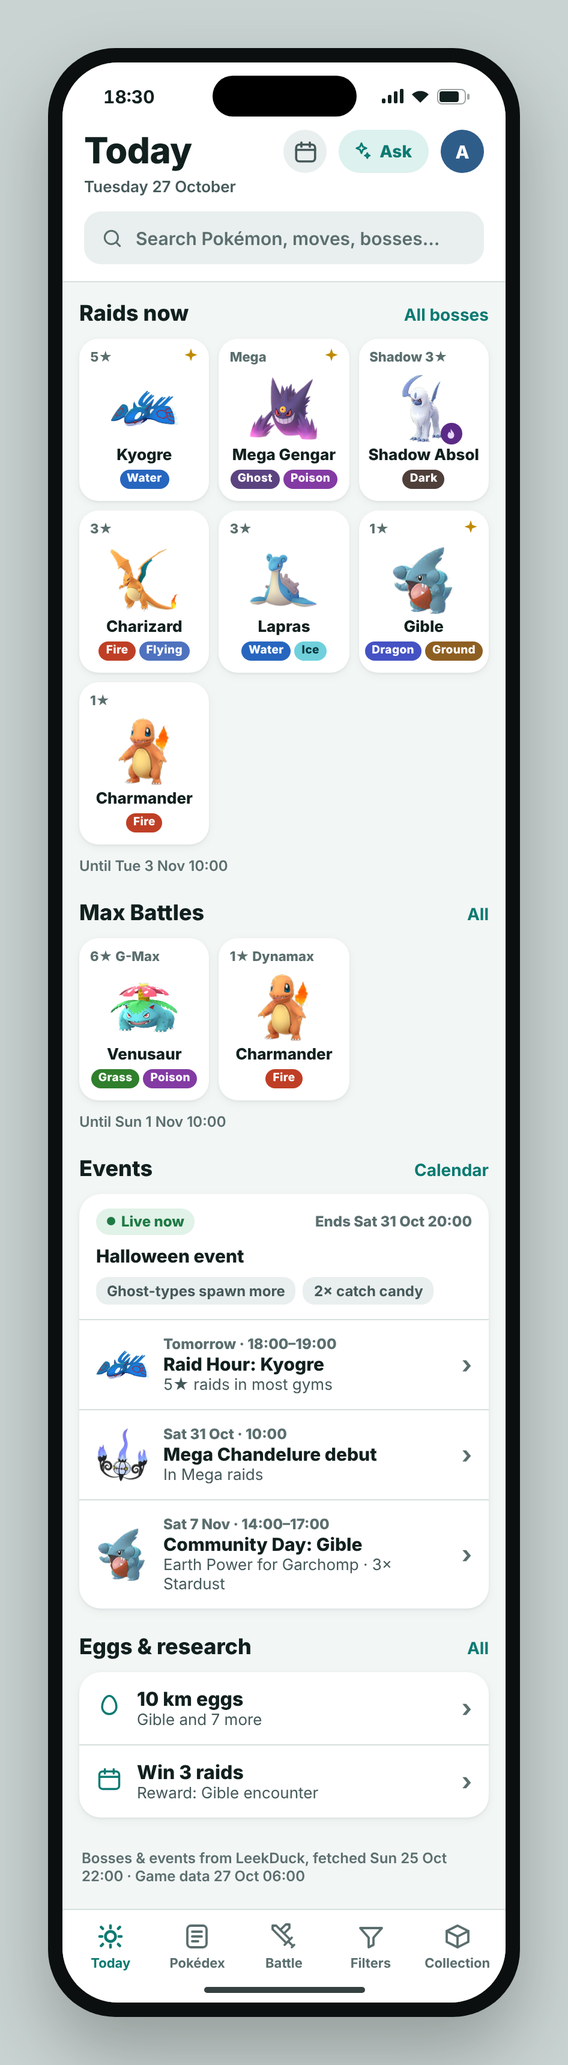
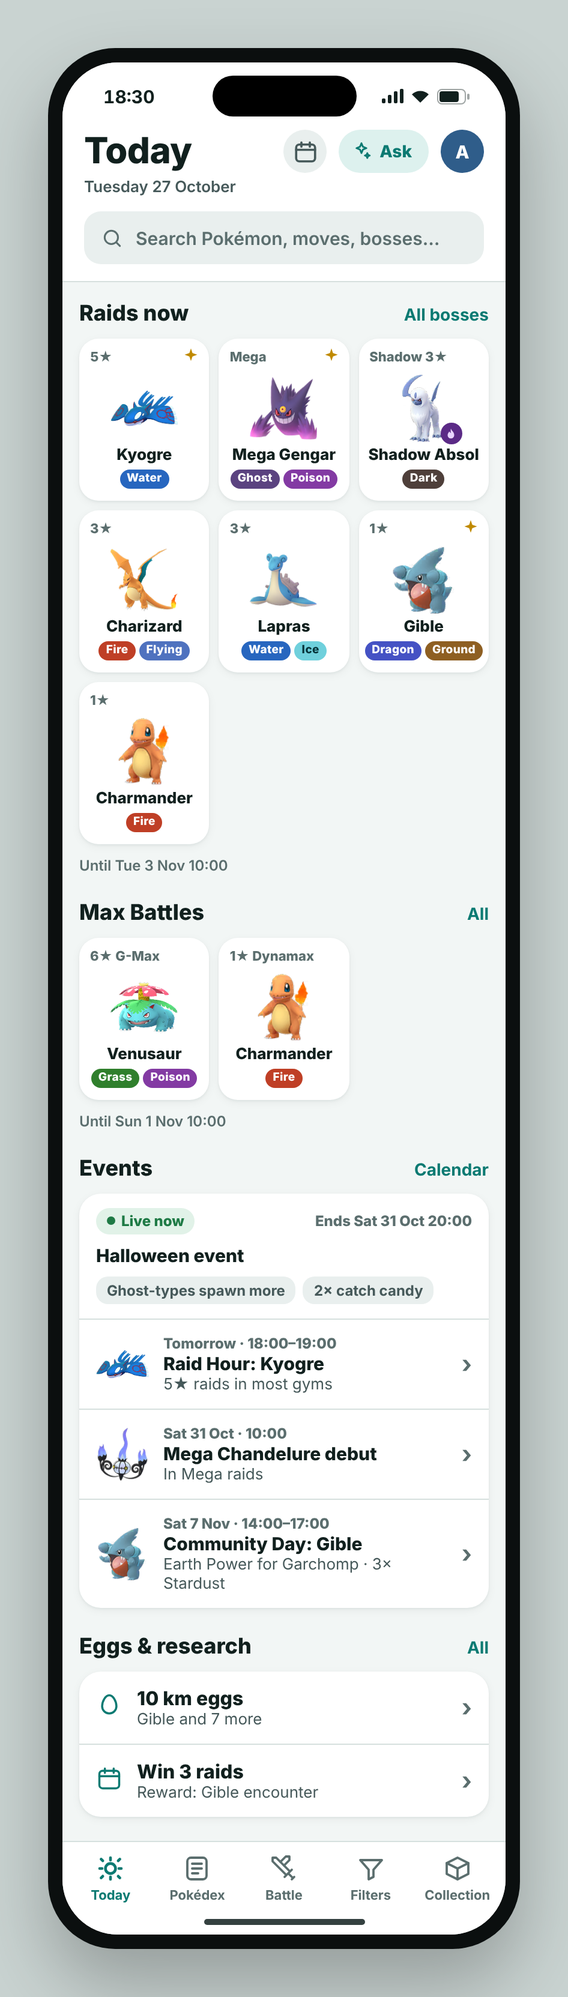
Remove source lines from A1/A2; mock the info-button option
Claude-Session: https://claude.ai/code/session_014PLsCiJiJmtsciFeh9tQXY

diff --git a/design/source/screens/A2-desktop.html b/design/source/screens/A2-desktop.html
@@ -1,4 +1,4 @@
 <!doctype html><html lang="en"><head><meta charset="utf-8"><title>A2 Calendar</title><link rel="stylesheet" href="../base.css"><link rel="stylesheet" href="_a2.css"></head><body><div class="desktop"><div data-sidebar="calendar"></div><div class="main"><div data-topbar></div>
 <div class="content" style="max-width:960px"><a class="backlink">‹ Today</a>
 <div style="display:flex;align-items:flex-end;gap:16px;margin:6px 0 18px"><h1 class="bigtitle" style="flex:none">Calendar</h1><span style="flex:1"></span><div class="filterchips"><span class="fchip on">All</span><span class="fchip">Raids</span><span class="fchip">Max Battles</span><span class="fchip">Events</span></div></div>
-<div style="margin:0 -12px"><div class="day"><b>Now</b></div><div class="group" style="margin:0 12px 6px"><div class="citem"><div class="ctime">Until Sat 31&nbsp;Oct 20:00</div><div class="cbody"><span style="display:flex;gap:6px;align-items:center"><span class="pill live" style="height:20px"><span class="dot"></span>Live</span><span class="kind ev">Event</span></span><div class="ctitle">Halloween event</div><div class="chips"><span class="chip">Ghost-types spawn more</span><span class="chip">2× catch candy</span></div></div><span class="csprites"><img class="sprite" src="../sprites/094.png" width="40" height="40" alt=""></span><span class="chev">›</span></div><div class="citem"><div class="ctime">Until Tue 3&nbsp;Nov 10:00</div><div class="cbody"><span style="display:flex;gap:6px;align-items:center"><span class="pill live" style="height:20px"><span class="dot"></span>Live</span><span class="kind">Raids</span></span><div class="ctitle">Kyogre, Mega Gengar, Shadow Absol and 4 more</div></div><span class="csprites"><img class="sprite" src="../sprites/382.png" width="40" height="40" alt=""><img class="sprite" src="../sprites/094_51.png" width="40" height="40" alt=""><img class="sprite" src="../sprites/359.png" width="40" height="40" alt=""></span><span class="chev">›</span></div><div class="citem"><div class="ctime">Until Sun 1&nbsp;Nov 10:00</div><div class="cbody"><span style="display:flex;gap:6px;align-items:center"><span class="pill live" style="height:20px"><span class="dot"></span>Live</span><span class="kind">Max Battles</span></span><div class="ctitle">Gigantamax Venusaur, Dynamax Charmander</div></div><span class="csprites"><img class="sprite" src="../sprites/003.png" width="40" height="40" alt=""><img class="sprite" src="../sprites/004.png" width="40" height="40" alt=""></span><span class="chev">›</span></div></div><div class="day"><b>Wed 28 Oct</b>Tomorrow</div><div class="group" style="margin:0 12px 6px"><div class="citem"><div class="ctime">18:00–<br>19:00</div><div class="cbody"><span class="kind">Raid Hour</span><div class="ctitle">Kyogre</div><div class="chips"><span class="chip">5★ raids in most gyms</span></div></div><span class="csprites"><img class="sprite" src="../sprites/382.png" width="40" height="40" alt=""></span><span class="chev">›</span></div></div><div class="day"><b>Sat 31 Oct</b></div><div class="group" style="margin:0 12px 6px"><div class="citem"><div class="ctime">10:00</div><div class="cbody"><span class="kind ev">Debut</span><div class="ctitle">Mega Chandelure in Mega raids</div></div><span class="csprites"><img class="sprite" src="../sprites/609.png" width="40" height="40" alt=""></span><span class="chev">›</span></div><div class="citem"><div class="ctime">20:00</div><div class="cbody"><span class="kind">Event ends</span><div class="ctitle">Halloween event ends</div></div><span class="chev">›</span></div></div><div class="day"><b>Sun 1 Nov</b></div><div class="group" style="margin:0 12px 6px"><div class="citem"><div class="ctime">10:00</div><div class="cbody"><span class="kind">Max Battles</span><div class="ctitle">New: 6★ Gigantamax Lapras</div></div><span class="csprites"><img class="sprite" src="../sprites/131.png" width="40" height="40" alt=""></span><span class="chev">›</span></div></div><div class="day"><b>Mon 2 Nov</b></div><div class="group" style="margin:0 12px 6px"><div class="citem"><div class="ctime">18:00–<br>19:00</div><div class="cbody"><span class="kind">Max Monday</span><div class="ctitle">Gigantamax Lapras</div><div class="chips"><span class="chip">More Power Spots</span></div></div><span class="csprites"><img class="sprite" src="../sprites/131.png" width="40" height="40" alt=""></span><span class="chev">›</span></div></div><div class="day"><b>Tue 3 Nov</b></div><div class="group" style="margin:0 12px 6px"><div class="citem"><div class="ctime">10:00</div><div class="cbody"><span class="kind">Raids</span><div class="ctitle">New 5★: Groudon</div></div><span class="csprites"><img class="sprite" src="../sprites/383.png" width="40" height="40" alt=""></span><span class="chev">›</span></div><div class="citem"><div class="ctime">18:00–<br>19:00</div><div class="cbody"><span class="kind">Spotlight Hour</span><div class="ctitle">Snorunt</div><div class="chips"><span class="chip">2× catch Stardust</span></div></div><span class="csprites"><img class="sprite" src="../sprites/361.png" width="40" height="40" alt=""></span><span class="chev">›</span></div></div><div class="day"><b>Wed 4 Nov</b></div><div class="group" style="margin:0 12px 6px"><div class="citem"><div class="ctime">18:00–<br>19:00</div><div class="cbody"><span class="kind">Raid Hour</span><div class="ctitle">Groudon</div></div><span class="csprites"><img class="sprite" src="../sprites/383.png" width="40" height="40" alt=""></span><span class="chev">›</span></div></div><div class="day"><b>Sat 7 Nov</b></div><div class="group" style="margin:0 12px 6px"><div class="citem"><div class="ctime">14:00–<br>17:00</div><div class="cbody"><span class="kind ev">Community Day</span><div class="ctitle">Gible</div><div class="chips"><span class="chip">Earth Power for Garchomp</span><span class="chip">3× catch Stardust</span></div></div><span class="csprites"><img class="sprite" src="../sprites/443.png" width="40" height="40" alt=""></span><span class="chev">›</span></div></div></div><p class="fresh" style="margin:14px 16px 4px">From LeekDuck, fetched by the AI researcher Sun 25 Oct 22:00 · Times in Lisbon time</p></div></div></div><script src="../chrome.js"></script></body></html>
+<div style="margin:0 -12px"><div class="day"><b>Now</b></div><div class="group" style="margin:0 12px 6px"><div class="citem"><div class="ctime">Until Sat 31&nbsp;Oct 20:00</div><div class="cbody"><span style="display:flex;gap:6px;align-items:center"><span class="pill live" style="height:20px"><span class="dot"></span>Live</span><span class="kind ev">Event</span></span><div class="ctitle">Halloween event</div><div class="chips"><span class="chip">Ghost-types spawn more</span><span class="chip">2× catch candy</span></div></div><span class="csprites"><img class="sprite" src="../sprites/094.png" width="40" height="40" alt=""></span><span class="chev">›</span></div><div class="citem"><div class="ctime">Until Tue 3&nbsp;Nov 10:00</div><div class="cbody"><span style="display:flex;gap:6px;align-items:center"><span class="pill live" style="height:20px"><span class="dot"></span>Live</span><span class="kind">Raids</span></span><div class="ctitle">Kyogre, Mega Gengar, Shadow Absol and 4 more</div></div><span class="csprites"><img class="sprite" src="../sprites/382.png" width="40" height="40" alt=""><img class="sprite" src="../sprites/094_51.png" width="40" height="40" alt=""><img class="sprite" src="../sprites/359.png" width="40" height="40" alt=""></span><span class="chev">›</span></div><div class="citem"><div class="ctime">Until Sun 1&nbsp;Nov 10:00</div><div class="cbody"><span style="display:flex;gap:6px;align-items:center"><span class="pill live" style="height:20px"><span class="dot"></span>Live</span><span class="kind">Max Battles</span></span><div class="ctitle">Gigantamax Venusaur, Dynamax Charmander</div></div><span class="csprites"><img class="sprite" src="../sprites/003.png" width="40" height="40" alt=""><img class="sprite" src="../sprites/004.png" width="40" height="40" alt=""></span><span class="chev">›</span></div></div><div class="day"><b>Wed 28 Oct</b>Tomorrow</div><div class="group" style="margin:0 12px 6px"><div class="citem"><div class="ctime">18:00–<br>19:00</div><div class="cbody"><span class="kind">Raid Hour</span><div class="ctitle">Kyogre</div><div class="chips"><span class="chip">5★ raids in most gyms</span></div></div><span class="csprites"><img class="sprite" src="../sprites/382.png" width="40" height="40" alt=""></span><span class="chev">›</span></div></div><div class="day"><b>Sat 31 Oct</b></div><div class="group" style="margin:0 12px 6px"><div class="citem"><div class="ctime">10:00</div><div class="cbody"><span class="kind ev">Debut</span><div class="ctitle">Mega Chandelure in Mega raids</div></div><span class="csprites"><img class="sprite" src="../sprites/609.png" width="40" height="40" alt=""></span><span class="chev">›</span></div><div class="citem"><div class="ctime">20:00</div><div class="cbody"><span class="kind">Event ends</span><div class="ctitle">Halloween event ends</div></div><span class="chev">›</span></div></div><div class="day"><b>Sun 1 Nov</b></div><div class="group" style="margin:0 12px 6px"><div class="citem"><div class="ctime">10:00</div><div class="cbody"><span class="kind">Max Battles</span><div class="ctitle">New: 6★ Gigantamax Lapras</div></div><span class="csprites"><img class="sprite" src="../sprites/131.png" width="40" height="40" alt=""></span><span class="chev">›</span></div></div><div class="day"><b>Mon 2 Nov</b></div><div class="group" style="margin:0 12px 6px"><div class="citem"><div class="ctime">18:00–<br>19:00</div><div class="cbody"><span class="kind">Max Monday</span><div class="ctitle">Gigantamax Lapras</div><div class="chips"><span class="chip">More Power Spots</span></div></div><span class="csprites"><img class="sprite" src="../sprites/131.png" width="40" height="40" alt=""></span><span class="chev">›</span></div></div><div class="day"><b>Tue 3 Nov</b></div><div class="group" style="margin:0 12px 6px"><div class="citem"><div class="ctime">10:00</div><div class="cbody"><span class="kind">Raids</span><div class="ctitle">New 5★: Groudon</div></div><span class="csprites"><img class="sprite" src="../sprites/383.png" width="40" height="40" alt=""></span><span class="chev">›</span></div><div class="citem"><div class="ctime">18:00–<br>19:00</div><div class="cbody"><span class="kind">Spotlight Hour</span><div class="ctitle">Snorunt</div><div class="chips"><span class="chip">2× catch Stardust</span></div></div><span class="csprites"><img class="sprite" src="../sprites/361.png" width="40" height="40" alt=""></span><span class="chev">›</span></div></div><div class="day"><b>Wed 4 Nov</b></div><div class="group" style="margin:0 12px 6px"><div class="citem"><div class="ctime">18:00–<br>19:00</div><div class="cbody"><span class="kind">Raid Hour</span><div class="ctitle">Groudon</div></div><span class="csprites"><img class="sprite" src="../sprites/383.png" width="40" height="40" alt=""></span><span class="chev">›</span></div></div><div class="day"><b>Sat 7 Nov</b></div><div class="group" style="margin:0 12px 6px"><div class="citem"><div class="ctime">14:00–<br>17:00</div><div class="cbody"><span class="kind ev">Community Day</span><div class="ctitle">Gible</div><div class="chips"><span class="chip">Earth Power for Garchomp</span><span class="chip">3× catch Stardust</span></div></div><span class="csprites"><img class="sprite" src="../sprites/443.png" width="40" height="40" alt=""></span><span class="chev">›</span></div></div></div></div></div></div><script src="../chrome.js"></script></body></html>

diff --git a/design/source/screens/A2-phone.html b/design/source/screens/A2-phone.html
@@ -1,5 +1,5 @@
 <!doctype html><html lang="en"><head><meta charset="utf-8"><title>A2 Calendar</title><link rel="stylesheet" href="../base.css"><link rel="stylesheet" href="_a2.css"></head><body><div class="stage"><div class="device"><div class="screen">
 <div data-statusbar></div><div data-dethead="Today|Calendar"></div>
 <div style="background:var(--surface);padding:10px 12px 12px;border-bottom:1px solid var(--line)"><div class="filterchips"><span class="fchip on">All</span><span class="fchip">Raids</span><span class="fchip">Max Battles</span><span class="fchip">Events</span></div></div>
-<div class="scroll"><div style="padding:4px 0 18px"><div class="day"><b>Now</b></div><div class="group" style="margin:0 12px 6px"><div class="citem"><div class="cbody"><span style="display:flex;gap:6px;align-items:center"><span class="pill live" style="height:20px"><span class="dot"></span>Live</span><span class="kind ev">Event</span></span><div class="ctitle">Halloween event</div><div class="until">Until Sat 31 Oct 20:00</div><div class="chips"><span class="chip">Ghost-types spawn more</span><span class="chip">2× catch candy</span></div></div><span class="csprites"><img class="sprite" src="../sprites/094.png" width="40" height="40" alt=""></span><span class="chev">›</span></div><div class="citem"><div class="cbody"><span style="display:flex;gap:6px;align-items:center"><span class="pill live" style="height:20px"><span class="dot"></span>Live</span><span class="kind">Raids</span></span><div class="ctitle">7 raid bosses</div><div class="until">Until Tue 3 Nov 10:00</div></div><span class="csprites"><img class="sprite" src="../sprites/382.png" width="40" height="40" alt=""><img class="sprite" src="../sprites/094_51.png" width="40" height="40" alt=""></span><span class="chev">›</span></div><div class="citem"><div class="cbody"><span style="display:flex;gap:6px;align-items:center"><span class="pill live" style="height:20px"><span class="dot"></span>Live</span><span class="kind">Max Battles</span></span><div class="ctitle">2 Max bosses</div><div class="until">Until Sun 1 Nov 10:00</div></div><span class="csprites"><img class="sprite" src="../sprites/003.png" width="40" height="40" alt=""><img class="sprite" src="../sprites/004.png" width="40" height="40" alt=""></span><span class="chev">›</span></div></div><div class="day"><b>Wed 28 Oct</b>Tomorrow</div><div class="group" style="margin:0 12px 6px"><div class="citem"><div class="ctime">18:00–<br>19:00</div><div class="cbody"><span class="kind">Raid Hour</span><div class="ctitle">Kyogre</div><div class="chips"><span class="chip">5★ raids in most gyms</span></div></div><span class="csprites"><img class="sprite" src="../sprites/382.png" width="40" height="40" alt=""></span><span class="chev">›</span></div></div><div class="day"><b>Sat 31 Oct</b></div><div class="group" style="margin:0 12px 6px"><div class="citem"><div class="ctime">10:00</div><div class="cbody"><span class="kind ev">Debut</span><div class="ctitle">Mega Chandelure in Mega raids</div></div><span class="csprites"><img class="sprite" src="../sprites/609.png" width="40" height="40" alt=""></span><span class="chev">›</span></div><div class="citem"><div class="ctime">20:00</div><div class="cbody"><span class="kind">Event ends</span><div class="ctitle">Halloween event ends</div></div><span class="chev">›</span></div></div><div class="day"><b>Sun 1 Nov</b></div><div class="group" style="margin:0 12px 6px"><div class="citem"><div class="ctime">10:00</div><div class="cbody"><span class="kind">Max Battles</span><div class="ctitle">New: 6★ Gigantamax Lapras</div></div><span class="csprites"><img class="sprite" src="../sprites/131.png" width="40" height="40" alt=""></span><span class="chev">›</span></div></div><div class="day"><b>Mon 2 Nov</b></div><div class="group" style="margin:0 12px 6px"><div class="citem"><div class="ctime">18:00–<br>19:00</div><div class="cbody"><span class="kind">Max Monday</span><div class="ctitle">Gigantamax Lapras</div><div class="chips"><span class="chip">More Power Spots</span></div></div><span class="csprites"><img class="sprite" src="../sprites/131.png" width="40" height="40" alt=""></span><span class="chev">›</span></div></div><div class="day"><b>Tue 3 Nov</b></div><div class="group" style="margin:0 12px 6px"><div class="citem"><div class="ctime">10:00</div><div class="cbody"><span class="kind">Raids</span><div class="ctitle">New 5★: Groudon</div></div><span class="csprites"><img class="sprite" src="../sprites/383.png" width="40" height="40" alt=""></span><span class="chev">›</span></div><div class="citem"><div class="ctime">18:00–<br>19:00</div><div class="cbody"><span class="kind">Spotlight Hour</span><div class="ctitle">Snorunt</div><div class="chips"><span class="chip">2× catch Stardust</span></div></div><span class="csprites"><img class="sprite" src="../sprites/361.png" width="40" height="40" alt=""></span><span class="chev">›</span></div></div><div class="day"><b>Wed 4 Nov</b></div><div class="group" style="margin:0 12px 6px"><div class="citem"><div class="ctime">18:00–<br>19:00</div><div class="cbody"><span class="kind">Raid Hour</span><div class="ctitle">Groudon</div></div><span class="csprites"><img class="sprite" src="../sprites/383.png" width="40" height="40" alt=""></span><span class="chev">›</span></div></div><div class="day"><b>Sat 7 Nov</b></div><div class="group" style="margin:0 12px 6px"><div class="citem"><div class="ctime">14:00–<br>17:00</div><div class="cbody"><span class="kind ev">Community Day</span><div class="ctitle">Gible</div><div class="chips"><span class="chip">Earth Power for Garchomp</span><span class="chip">3× catch Stardust</span></div></div><span class="csprites"><img class="sprite" src="../sprites/443.png" width="40" height="40" alt=""></span><span class="chev">›</span></div></div><p class="fresh" style="margin:14px 16px 4px">From LeekDuck, fetched by the AI researcher Sun 25 Oct 22:00 · Times in Lisbon time</p></div></div>
+<div class="scroll"><div style="padding:4px 0 18px"><div class="day"><b>Now</b></div><div class="group" style="margin:0 12px 6px"><div class="citem"><div class="cbody"><span style="display:flex;gap:6px;align-items:center"><span class="pill live" style="height:20px"><span class="dot"></span>Live</span><span class="kind ev">Event</span></span><div class="ctitle">Halloween event</div><div class="until">Until Sat 31 Oct 20:00</div><div class="chips"><span class="chip">Ghost-types spawn more</span><span class="chip">2× catch candy</span></div></div><span class="csprites"><img class="sprite" src="../sprites/094.png" width="40" height="40" alt=""></span><span class="chev">›</span></div><div class="citem"><div class="cbody"><span style="display:flex;gap:6px;align-items:center"><span class="pill live" style="height:20px"><span class="dot"></span>Live</span><span class="kind">Raids</span></span><div class="ctitle">7 raid bosses</div><div class="until">Until Tue 3 Nov 10:00</div></div><span class="csprites"><img class="sprite" src="../sprites/382.png" width="40" height="40" alt=""><img class="sprite" src="../sprites/094_51.png" width="40" height="40" alt=""></span><span class="chev">›</span></div><div class="citem"><div class="cbody"><span style="display:flex;gap:6px;align-items:center"><span class="pill live" style="height:20px"><span class="dot"></span>Live</span><span class="kind">Max Battles</span></span><div class="ctitle">2 Max bosses</div><div class="until">Until Sun 1 Nov 10:00</div></div><span class="csprites"><img class="sprite" src="../sprites/003.png" width="40" height="40" alt=""><img class="sprite" src="../sprites/004.png" width="40" height="40" alt=""></span><span class="chev">›</span></div></div><div class="day"><b>Wed 28 Oct</b>Tomorrow</div><div class="group" style="margin:0 12px 6px"><div class="citem"><div class="ctime">18:00–<br>19:00</div><div class="cbody"><span class="kind">Raid Hour</span><div class="ctitle">Kyogre</div><div class="chips"><span class="chip">5★ raids in most gyms</span></div></div><span class="csprites"><img class="sprite" src="../sprites/382.png" width="40" height="40" alt=""></span><span class="chev">›</span></div></div><div class="day"><b>Sat 31 Oct</b></div><div class="group" style="margin:0 12px 6px"><div class="citem"><div class="ctime">10:00</div><div class="cbody"><span class="kind ev">Debut</span><div class="ctitle">Mega Chandelure in Mega raids</div></div><span class="csprites"><img class="sprite" src="../sprites/609.png" width="40" height="40" alt=""></span><span class="chev">›</span></div><div class="citem"><div class="ctime">20:00</div><div class="cbody"><span class="kind">Event ends</span><div class="ctitle">Halloween event ends</div></div><span class="chev">›</span></div></div><div class="day"><b>Sun 1 Nov</b></div><div class="group" style="margin:0 12px 6px"><div class="citem"><div class="ctime">10:00</div><div class="cbody"><span class="kind">Max Battles</span><div class="ctitle">New: 6★ Gigantamax Lapras</div></div><span class="csprites"><img class="sprite" src="../sprites/131.png" width="40" height="40" alt=""></span><span class="chev">›</span></div></div><div class="day"><b>Mon 2 Nov</b></div><div class="group" style="margin:0 12px 6px"><div class="citem"><div class="ctime">18:00–<br>19:00</div><div class="cbody"><span class="kind">Max Monday</span><div class="ctitle">Gigantamax Lapras</div><div class="chips"><span class="chip">More Power Spots</span></div></div><span class="csprites"><img class="sprite" src="../sprites/131.png" width="40" height="40" alt=""></span><span class="chev">›</span></div></div><div class="day"><b>Tue 3 Nov</b></div><div class="group" style="margin:0 12px 6px"><div class="citem"><div class="ctime">10:00</div><div class="cbody"><span class="kind">Raids</span><div class="ctitle">New 5★: Groudon</div></div><span class="csprites"><img class="sprite" src="../sprites/383.png" width="40" height="40" alt=""></span><span class="chev">›</span></div><div class="citem"><div class="ctime">18:00–<br>19:00</div><div class="cbody"><span class="kind">Spotlight Hour</span><div class="ctitle">Snorunt</div><div class="chips"><span class="chip">2× catch Stardust</span></div></div><span class="csprites"><img class="sprite" src="../sprites/361.png" width="40" height="40" alt=""></span><span class="chev">›</span></div></div><div class="day"><b>Wed 4 Nov</b></div><div class="group" style="margin:0 12px 6px"><div class="citem"><div class="ctime">18:00–<br>19:00</div><div class="cbody"><span class="kind">Raid Hour</span><div class="ctitle">Groudon</div></div><span class="csprites"><img class="sprite" src="../sprites/383.png" width="40" height="40" alt=""></span><span class="chev">›</span></div></div><div class="day"><b>Sat 7 Nov</b></div><div class="group" style="margin:0 12px 6px"><div class="citem"><div class="ctime">14:00–<br>17:00</div><div class="cbody"><span class="kind ev">Community Day</span><div class="ctitle">Gible</div><div class="chips"><span class="chip">Earth Power for Garchomp</span><span class="chip">3× catch Stardust</span></div></div><span class="csprites"><img class="sprite" src="../sprites/443.png" width="40" height="40" alt=""></span><span class="chev">›</span></div></div></div></div>
 <div data-tabbar="today"></div></div></div></div><script src="../chrome.js"></script></body></html>

diff --git a/design/source/screens/A2info-phone.html b/design/source/screens/A2info-phone.html
@@ -1,0 +1,6 @@
+<!doctype html><html lang="en"><head><meta charset="utf-8"><title>A2 option: info button</title><link rel="stylesheet" href="../base.css"><link rel="stylesheet" href="_a2.css"><style>.infobtn{width:20px;height:20px;border-radius:50%;border:1.6px solid var(--text-3);color:var(--text-3);font-size:12px;font-weight:800;display:inline-grid;place-items:center;font-family:Georgia,serif;font-style:italic}.popover{margin:0 12px 10px;background:var(--surface);border:1px solid var(--line);border-radius:14px;box-shadow:0 8px 24px rgba(0,0,0,.12);padding:12px 14px;display:flex;flex-direction:column;gap:4px;font-size:13px;color:var(--text-2);font-weight:600}</style></head><body><div class="stage"><div class="device"><div class="screen">
+<div data-statusbar></div><div data-dethead="Today|Calendar"></div>
+<div style="background:var(--surface);padding:10px 12px 12px;border-bottom:1px solid var(--line)"><div class="filterchips"><span class="fchip on">All</span><span class="fchip">Raids</span><span class="fchip">Max Battles</span><span class="fchip">Events</span></div></div>
+<div class="scroll"><div style="padding:4px 0 18px"><div class="day" style="align-items:center"><b>Now</b><span class="infobtn">i</span></div><div class="popover"><div style="font-weight:800;font-size:14px;color:var(--text)">Where this comes from</div>
+<div>Raid bosses and events: <b>LeekDuck</b></div><div>Fetched Sun 25 Oct 22:00 by the AI researcher</div><a style="font-weight:800">View source ›</a></div><div class="group" style="margin:0 12px 6px"><div class="citem"><div class="cbody"><span style="display:flex;gap:6px;align-items:center"><span class="pill live" style="height:20px"><span class="dot"></span>Live</span><span class="kind ev">Event</span></span><div class="ctitle">Halloween event</div><div class="until">Until Sat 31 Oct 20:00</div><div class="chips"><span class="chip">Ghost-types spawn more</span><span class="chip">2× catch candy</span></div></div><span class="csprites"><img class="sprite" src="../sprites/094.png" width="40" height="40" alt=""></span><span class="chev">›</span></div><div class="citem"><div class="cbody"><span style="display:flex;gap:6px;align-items:center"><span class="pill live" style="height:20px"><span class="dot"></span>Live</span><span class="kind">Raids</span></span><div class="ctitle">7 raid bosses</div><div class="until">Until Tue 3 Nov 10:00</div></div><span class="csprites"><img class="sprite" src="../sprites/382.png" width="40" height="40" alt=""><img class="sprite" src="../sprites/094_51.png" width="40" height="40" alt=""></span><span class="chev">›</span></div><div class="citem"><div class="cbody"><span style="display:flex;gap:6px;align-items:center"><span class="pill live" style="height:20px"><span class="dot"></span>Live</span><span class="kind">Max Battles</span></span><div class="ctitle">2 Max bosses</div><div class="until">Until Sun 1 Nov 10:00</div></div><span class="csprites"><img class="sprite" src="../sprites/003.png" width="40" height="40" alt=""><img class="sprite" src="../sprites/004.png" width="40" height="40" alt=""></span><span class="chev">›</span></div></div><div class="day"><b>Wed 28 Oct</b>Tomorrow</div><div class="group" style="margin:0 12px 6px"><div class="citem"><div class="ctime">18:00–<br>19:00</div><div class="cbody"><span class="kind">Raid Hour</span><div class="ctitle">Kyogre</div><div class="chips"><span class="chip">5★ raids in most gyms</span></div></div><span class="csprites"><img class="sprite" src="../sprites/382.png" width="40" height="40" alt=""></span><span class="chev">›</span></div></div><div class="day"><b>Sat 31 Oct</b></div><div class="group" style="margin:0 12px 6px"><div class="citem"><div class="ctime">10:00</div><div class="cbody"><span class="kind ev">Debut</span><div class="ctitle">Mega Chandelure in Mega raids</div></div><span class="csprites"><img class="sprite" src="../sprites/609.png" width="40" height="40" alt=""></span><span class="chev">›</span></div><div class="citem"><div class="ctime">20:00</div><div class="cbody"><span class="kind">Event ends</span><div class="ctitle">Halloween event ends</div></div><span class="chev">›</span></div></div><div class="day"><b>Sun 1 Nov</b></div><div class="group" style="margin:0 12px 6px"><div class="citem"><div class="ctime">10:00</div><div class="cbody"><span class="kind">Max Battles</span><div class="ctitle">New: 6★ Gigantamax Lapras</div></div><span class="csprites"><img class="sprite" src="../sprites/131.png" width="40" height="40" alt=""></span><span class="chev">›</span></div></div><div class="day"><b>Mon 2 Nov</b></div><div class="group" style="margin:0 12px 6px"><div class="citem"><div class="ctime">18:00–<br>19:00</div><div class="cbody"><span class="kind">Max Monday</span><div class="ctitle">Gigantamax Lapras</div><div class="chips"><span class="chip">More Power Spots</span></div></div><span class="csprites"><img class="sprite" src="../sprites/131.png" width="40" height="40" alt=""></span><span class="chev">›</span></div></div><div class="day"><b>Tue 3 Nov</b></div><div class="group" style="margin:0 12px 6px"><div class="citem"><div class="ctime">10:00</div><div class="cbody"><span class="kind">Raids</span><div class="ctitle">New 5★: Groudon</div></div><span class="csprites"><img class="sprite" src="../sprites/383.png" width="40" height="40" alt=""></span><span class="chev">›</span></div><div class="citem"><div class="ctime">18:00–<br>19:00</div><div class="cbody"><span class="kind">Spotlight Hour</span><div class="ctitle">Snorunt</div><div class="chips"><span class="chip">2× catch Stardust</span></div></div><span class="csprites"><img class="sprite" src="../sprites/361.png" width="40" height="40" alt=""></span><span class="chev">›</span></div></div><div class="day"><b>Wed 4 Nov</b></div><div class="group" style="margin:0 12px 6px"><div class="citem"><div class="ctime">18:00–<br>19:00</div><div class="cbody"><span class="kind">Raid Hour</span><div class="ctitle">Groudon</div></div><span class="csprites"><img class="sprite" src="../sprites/383.png" width="40" height="40" alt=""></span><span class="chev">›</span></div></div><div class="day"><b>Sat 7 Nov</b></div><div class="group" style="margin:0 12px 6px"><div class="citem"><div class="ctime">14:00–<br>17:00</div><div class="cbody"><span class="kind ev">Community Day</span><div class="ctitle">Gible</div><div class="chips"><span class="chip">Earth Power for Garchomp</span><span class="chip">3× catch Stardust</span></div></div><span class="csprites"><img class="sprite" src="../sprites/443.png" width="40" height="40" alt=""></span><span class="chev">›</span></div></div></div></div>
+<div data-tabbar="today"></div></div></div></div><script src="../chrome.js"></script></body></html>

diff --git a/design/source/screens/A1-phone.html b/design/source/screens/A1-phone.html
@@ -26,7 +26,6 @@
  <div class="row"><span style="color:var(--accent)">ICON_EGG</span><div><div style="font-weight:800">10 km eggs</div><div class="muted" style="font-size:13px">Gible and 7 more</div></div><span class="chev">›</span></div>
  <div class="row"><span style="color:var(--accent)">ICON_CAL</span><div><div style="font-weight:800">Win 3 raids</div><div class="muted" style="font-size:13px">Reward: Gible encounter</div></div><span class="chev">›</span></div>
 </div></section>
- <p class="fresh" style="margin:4px 2px 0">Bosses &amp; events from LeekDuck, fetched Sun 25 Oct 22:00 · Game data 27 Oct 06:00</p>
 </div></div>
 <div data-tabbar="today"></div>
 </div></div></div><script src="../chrome.js"></script><script>document.body.innerHTML=document.body.innerHTML.replaceAll("ICON_EGG",icon("egg",22)).replaceAll("ICON_CAL",icon("calendar",22)).replaceAll("CALICON",icon("calendar",21,2.1));</script></body></html>

diff --git a/design/source/screens/A1-desktop.html b/design/source/screens/A1-desktop.html
@@ -27,5 +27,4 @@
 </div></section>
   </div>
  </div>
- <p class="fresh" style="margin:4px 2px 0">Bosses &amp; events from LeekDuck, fetched Sun 25 Oct 22:00 · Game data 27 Oct 06:00</p>
 </div></div></div><script src="../chrome.js"></script><script>document.body.innerHTML=document.body.innerHTML.replaceAll("ICON_EGG",icon("egg",22)).replaceAll("ICON_CAL",icon("calendar",22));</script></body></html>

diff --git a/design/source/screens/gen_a2.py b/design/source/screens/gen_a2.py
@@ -38,7 +38,7 @@ def agenda(phone):
     return ''.join(f'<div class="day"><b>{d}</b>{rel}</div><div class="group" style="margin:0 12px 6px">' + ''.join(items) + '</div>' for d, rel, items in days(phone))
 
 chips = '<div class="filterchips"><span class="fchip on">All</span><span class="fchip">Raids</span><span class="fchip">Max Battles</span><span class="fchip">Events</span></div>'
-fresh = '<p class="fresh" style="margin:14px 16px 4px">From LeekDuck, fetched by the AI researcher Sun 25 Oct 22:00 · Times in Lisbon time</p>'
+fresh = ''
 head = '<!doctype html><html lang="en"><head><meta charset="utf-8"><title>A2 Calendar</title><link rel="stylesheet" href="../base.css"><link rel="stylesheet" href="_a2.css"></head><body>'
 phone = head + f'''<div class="stage"><div class="device"><div class="screen">
 <div data-statusbar></div><div data-dethead="Today|Calendar"></div>

diff --git a/CLAUDE.md b/CLAUDE.md
@@ -138,6 +138,7 @@ Earlier product work (feature list F01–F25 with priorities, UI choices, first 
 | 2026-10-27 | Screen **A1 Today approved** (tiles for raids and Max Battles, live/next events, eggs & research summary, data-source line). Sprites trimmed and scaled to fill their box equally on all screens. |
 | 2026-10-27 | Working agreement: questions are asked **as plain text in the chat**, answered freely (no multiple-choice pop-ups). |
 | 2026-10-27 | Calendar entry points: calendar button in Today's header (A1 updated) and search offers the Calendar for "calendar", "raid hour", "community day" (H2). **A2 Calendar approved.** |
+| 2026-10-27 | **No source lines on screens** (removed from A1, A2, A3). Whether the source stays reachable (ⓘ) is still open; the specs' "source shown" wording is updated once decided. |
 | 2026-10-27 | All commits authored by the owner's GitHub account (history rewritten); Claude's involvement shown by the Co-Authored-By trailer. |
 
 ## Open decisions
